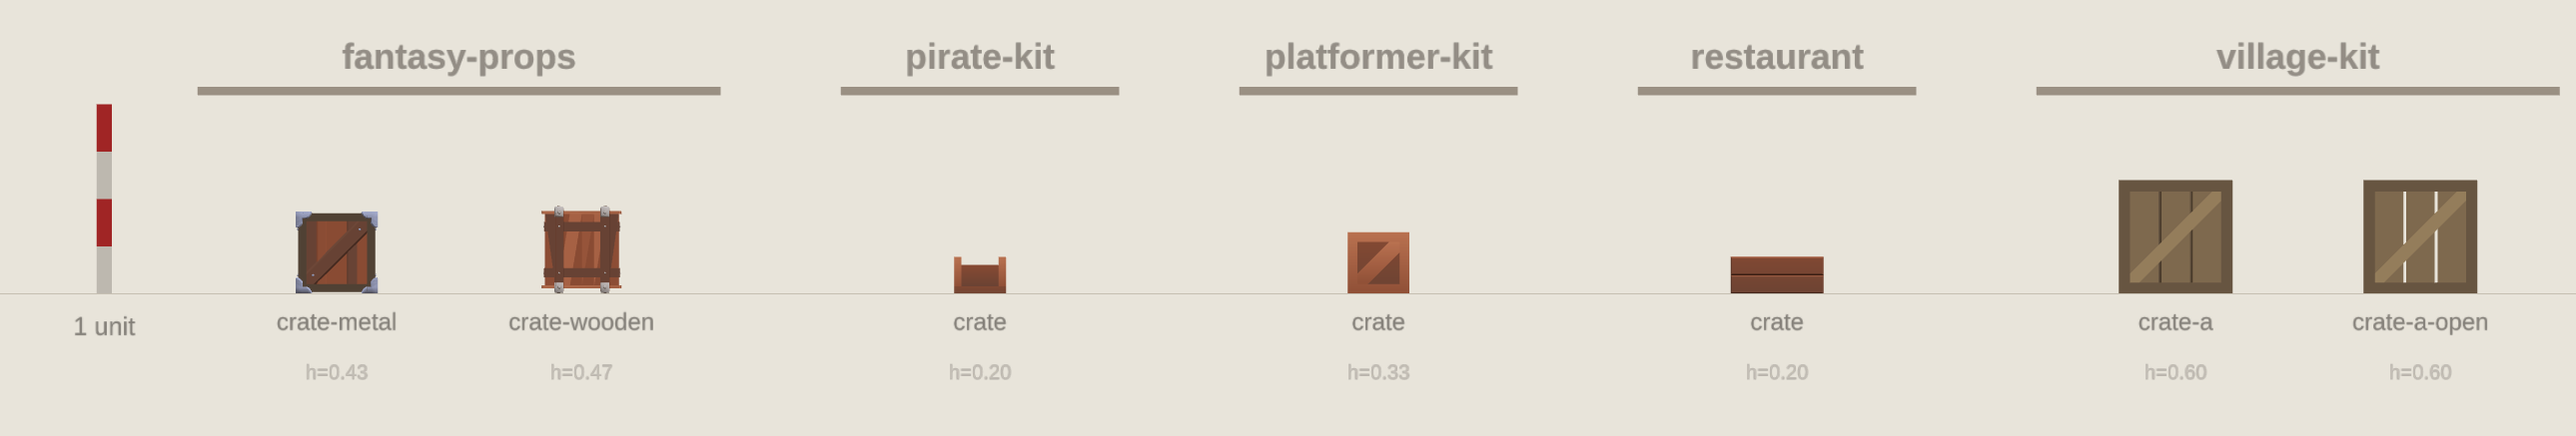
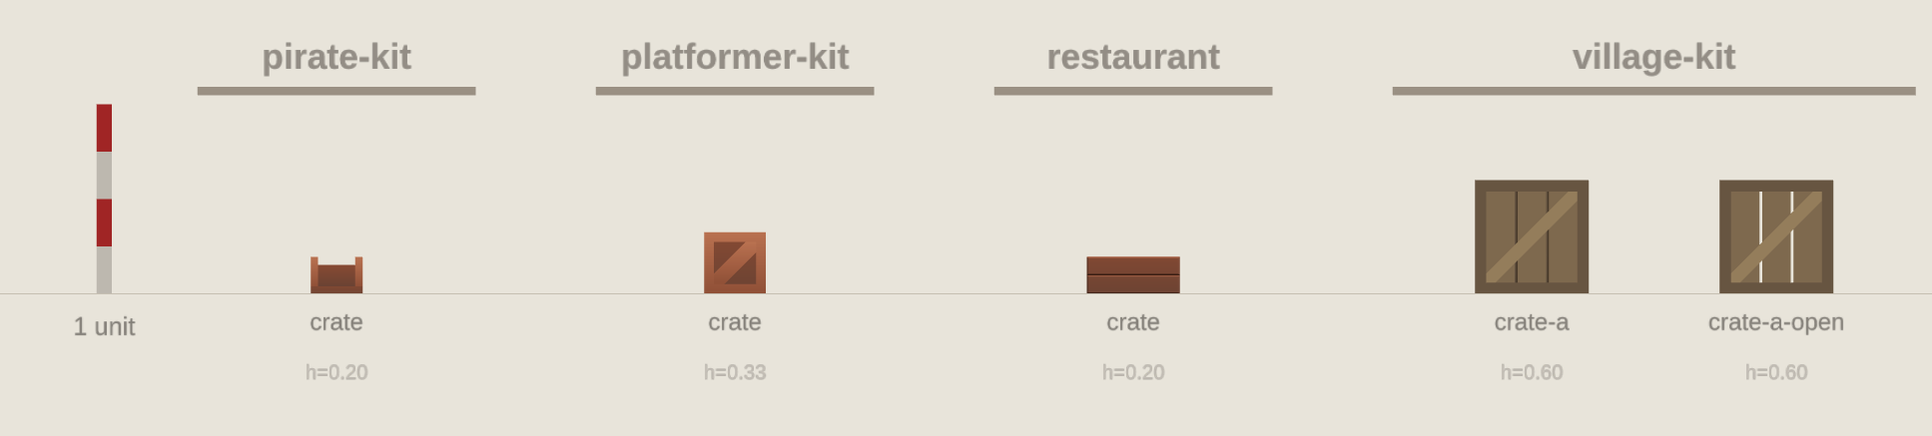
Merge main: stroken en analyse bijgewerkt na het opruimen van assets
- 77 onderwerpen opnieuw gerenderd op de catalogus van 960 modellen; 42 daarvan
  houden een spreiding van 1.8x of meer.
- bevindingen.md: de hoge Quaternius-graspollen zijn verdwenen, dus die kit valt
  niet langer uit de toon (factor 1.02). Wat overblijft bij gras ligt nog steeds
  uiteen, van 0.06 tot 0.29. Kratten lopen nu van 0.20 tot 0.60.

Claude-Session: https://claude.ai/code/session_01DyFMPnEG9Xyxg7HDhnXmAF

diff --git a/docs/asset_size_review/onderwerpen/afwijkingen.md b/docs/asset_size_review/onderwerpen/afwijkingen.md
@@ -9,7 +9,7 @@ node tools/vergelijk-groottes/afwijkingen.mjs
 ```
 
 Onderwerpen met meer dan één kit: 77. Daarvan met een spreiding van
-1.8× of meer tussen grootste en kleinste kit: 44.
+1.8× of meer tussen grootste en kleinste kit: 42.
 
 ## Kits die er structureel uit springen
 
@@ -17,27 +17,27 @@ Onderwerpen met meer dan één kit: 77. Daarvan met een spreiding van
 
 | kit | factor | te groot bij | te klein bij | veel dichter mesh bij |
 | --- | ---: | --- | --- | --- |
-| pirate-kit | 1.21 | fence, rock, rope | grass | fence, roof |
+| pirate-kit | 1.25 | fence, rock, rope | grass | fence, roof |
 | dungeon | 0.84 | key | coin, column, dirt | chest, doorway, pillar, rock, wall, window |
-| natuur | 0.77 | – | balloon, log, mushroom, star | post |
+| natuur | 0.78 | – | balloon, log, mushroom, star | post |
 | rocks | 3.99 | arch, column, wall | – | dirt |
-| survival-kit | 1.18 | fence, grass, rock | – | – |
-| platformer-kit | 0.92 | mushroom | flower, rope | – |
+| survival-kit | 1.19 | fence, grass, rock | – | – |
+| platformer-kit | 0.93 | mushroom | flower, rope | – |
 | fantasy-town-kit | 0.88 | rock | blade, plank | stair |
-| fantasy-props | 0.69 | – | candle, key, plate | candle, crate |
 | props | 1.19 | plate, table | – | – |
-| village-kit | 1.09 | crate, ladder | – | crate |
-| modulair-terrein | 0.90 | – | mountain, post | – |
+| village-kit | 1.11 | crate, ladder | – | crate |
+| modulair-terrein | 0.91 | – | mountain, post | – |
+| fantasy-props | 0.67 | – | key, plate | – |
 | modular-cave-kit | 2.01 | hole | – | – |
 | taalei-kit | 1.92 | balloon | – | – |
 | resources | 1.51 | stack | – | stack |
-| quaternius-nature | 1.24 | grass | – | pine |
 | halloween | 1.07 | – | bench | – |
-| restaurant | 0.74 | – | board | – |
+| restaurant | 0.77 | – | board | – |
 | prototype-kit | 1.16 | – | – | – |
+| quaternius-nature | 1.02 | – | – | pine |
 | rpgtools | 0.89 | – | – | – |
-| mini-forest | 0.81 | – | – | – |
-| forest | 0.78 | – | – | – |
+| mini-forest | 0.84 | – | – | – |
+| forest | 0.83 | – | – | – |
 
 ## Per onderwerp
 
@@ -110,19 +110,6 @@ Mediaan over de kits: 0.17 unit hoog. ![stack](stack.png)
 | dungeon | 0.16 | 0.96 | 0.26 | 968 | #ffb349 | coin-stack-large, coin-stack-small, coin-stack-medium |
 | fantasy-props | 0.10 | 0.62 | 0.14 | 327 | #23562c #8f785b #474a58 | book-stack-1, book-stack-2 |
 
-### grass — spreiding 6.43×
-
-Mediaan over de kits: 0.14 unit hoog. ![grass](grass.png)
-
-| kit | hoogte | factor | grondvlak | driehoeken/unit | kleuren | modellen |
-| --- | ---: | ---: | ---: | ---: | --- | --- |
-| quaternius-nature | 0.41 | 2.81 ⬆ | 0.18 | 192 | #23562c | grass, grass-2, grass-short |
-| survival-kit | 0.29 | 2.04 ⬆ | 2.32 | 173 | #6d8d33 #dd9f79 | rock-flat-grass |
-| forest | 0.17 | 1.17 | 0.17 | 132 | #6d8d33 | grass-1-a, grass-1-b, grass-1-c |
-| village-kit | 0.12 | 0.83 | 0.60 | 64 | #6d8d33 | well-base-grass |
-| mini-forest | 0.11 | 0.77 | 0.65 | 295 | #6d8d33 | patch-grass |
-| pirate-kit | 0.06 | 0.44 ⬇ | 1.34 | 60 | #6d8d33 | patch-grass |
-
 ### coin — spreiding 5.81×
 
 Mediaan over de kits: 0.11 unit hoog. ![coin](coin.png)
@@ -172,6 +159,18 @@ Mediaan over de kits: 6.97 unit hoog. ![mountain](mountain.png)
 | --- | ---: | ---: | ---: | ---: | --- | --- |
 | natuur | 11.54 | 1.66 | 21.05 | 0 | #88796d | mountain-2, mountain-3, mountain-4 |
 | modulair-terrein | 2.39 | 0.34 ⬇ | 1.75 | 6 | #88796d | mountain-a, mountain-b, mountain-c |
+
+### grass — spreiding 4.67×
+
+Mediaan over de kits: 0.12 unit hoog. ![grass](grass.png)
+
+| kit | hoogte | factor | grondvlak | driehoeken/unit | kleuren | modellen |
+| --- | ---: | ---: | ---: | ---: | --- | --- |
+| survival-kit | 0.29 | 2.45 ⬆ | 2.32 | 173 | #6d8d33 #dd9f79 | rock-flat-grass |
+| forest | 0.17 | 1.40 | 0.17 | 132 | #6d8d33 | grass-1-a, grass-1-b, grass-1-c |
+| village-kit | 0.12 | 1.00 | 0.60 | 64 | #6d8d33 | well-base-grass |
+| mini-forest | 0.11 | 0.93 | 0.65 | 295 | #6d8d33 | patch-grass |
+| pirate-kit | 0.06 | 0.53 ⬇ | 1.34 | 60 | #6d8d33 | patch-grass |
 
 ### rock — spreiding 4.63×
 
@@ -272,15 +271,14 @@ Mediaan over de kits: 0.11 unit hoog. ![dirt](dirt.png)
 
 ### crate — spreiding 3.06×
 
-Mediaan over de kits: 0.33 unit hoog. ![crate](crate.png)
+Mediaan over de kits: 0.26 unit hoog. ![crate](crate.png)
 
 | kit | hoogte | factor | grondvlak | driehoeken/unit | kleuren | modellen |
 | --- | ---: | ---: | ---: | ---: | --- | --- |
-| village-kit | 0.60 | 1.85 ⬆ | 0.60 | 460 | #8f785b | crate-a, crate-a-open |
-| fantasy-props | 0.45 | 1.38 | 0.44 | 2157 | #995a41 #8f785b #9da4c4 | crate-metal, crate-wooden |
-| platformer-kit | 0.33 | 1.00 | 0.33 | 156 | #995a41 #d07b56 | crate |
-| pirate-kit | 0.20 | 0.60 | 0.33 | 76 | #995a41 #d07b56 | crate |
-| restaurant | 0.20 | 0.60 | 0.49 | 132 | #995a41 | crate |
+| village-kit | 0.60 | 2.30 ⬆ | 0.60 | 460 | #8f785b | crate-a, crate-a-open |
+| platformer-kit | 0.33 | 1.25 | 0.33 | 156 | #995a41 #d07b56 | crate |
+| pirate-kit | 0.20 | 0.75 | 0.33 | 76 | #995a41 #d07b56 | crate |
+| restaurant | 0.20 | 0.75 | 0.49 | 132 | #995a41 | crate |
 
 ### fence — spreiding 2.72×
 
@@ -302,16 +300,6 @@ Mediaan over de kits: 0.46 unit hoog. ![glass](glass.png)
 | --- | ---: | ---: | ---: | ---: | --- | --- |
 | fantasy-town-kit | 0.65 | 1.42 | 0.65 | 122 | #995a41 #d07b56 | wall-wood-window-glass |
 | rpgtools | 0.27 | 0.58 | 0.13 | 570 | #6d738a #8f785b #ffffff | magnifying-glass |
-
-### candle — spreiding 2.27×
-
-Mediaan over de kits: 0.22 unit hoog. ![candle](candle.png)
-
-| kit | hoogte | factor | grondvlak | driehoeken/unit | kleuren | modellen |
-| --- | ---: | ---: | ---: | ---: | --- | --- |
-| dungeon | 0.22 | 1.00 | 0.08 | 66 | #8f785b #f4efe3 | candle, candle-thin, candle-melted |
-| halloween | 0.22 | 1.00 | 0.08 | 66 | #995a41 #f4efe3 | candle, candle-thin, candle-melted |
-| fantasy-props | 0.10 | 0.44 ⬇ | 0.05 | 211 | #6d738a #dd9f79 #ffb349 | candle-1, candle-2 |
 
 ### log — spreiding 2.24×
 
@@ -363,16 +351,6 @@ Mediaan over de kits: 0.19 unit hoog. ![stool](stool.png)
 | --- | ---: | ---: | ---: | ---: | --- | --- |
 | props | 0.26 | 1.35 | 0.31 | 268 | #3e3e44 #8f785b | stool-a |
 | dungeon | 0.13 | 0.65 | 0.19 | 172 | #995a41 | stool |
-
-### stump — spreiding 2.06×
-
-Mediaan over de kits: 0.21 unit hoog. ![stump](stump.png)
-
-| kit | hoogte | factor | grondvlak | driehoeken/unit | kleuren | modellen |
-| --- | ---: | ---: | ---: | ---: | --- | --- |
-| quaternius-nature | 0.25 | 1.19 | 0.54 | 232 | #23562c #88796d | tree-stump |
-| modulair-terrein | 0.21 | 1.00 | 0.17 | 100 | #8f785b | hilly-prop-stump |
-| natuur | 0.12 | 0.58 | 0.14 | 220 | #8f785b #dd9f79 | stump-1, stump-2, stump-3 |
 
 ### barrel — spreiding 1.99×
 

diff --git a/docs/asset_size_review/onderwerpen/bevindingen.md b/docs/asset_size_review/onderwerpen/bevindingen.md
@@ -5,8 +5,9 @@ Handgeschreven notities bij de stroken in deze map en de cijfers in
 units, driehoeken per unit); de oordelen komen van het bekijken van de renders.
 Dit bestand wordt niet gegenereerd — vul het aan als je iets anders ziet.
 
-Bijgewerkt nadat de kits op maat zijn gezet: de meeste kits zijn kleiner geworden,
-waardoor de verhoudingen hieronder anders liggen dan in de eerste ronde.
+Bijgewerkt nadat de kits op maat zijn gezet en er assets zijn opgeruimd: de meeste
+kits zijn kleiner geworden en een aantal modellen is verdwenen, waardoor de
+verhoudingen hieronder anders liggen dan in de eerste ronde.
 
 ## Twee schalen door elkaar
 
@@ -21,12 +22,14 @@ Dat is geen fout in die kits — het zijn decorstukken voor de achtergrond — m
 horen niet in dezelfde strook als een huismuur. Bij plaatsing apart houden, of één
 schaalfactor voor de hele kit afspreken.
 
-## Gras blijft de grootste stijlbreuk in de natuurkits
+## Gras: de uitschieter is weg, de rest ligt nog uiteen
 
-In [grass.png](grass.png) staat `quaternius-nature` met pollen van 0.41–0.48 units
-naast `forest` (0.16–0.17), `mini-forest` (0.11) en `pirate-kit` (0.06): drie tot
-acht keer zo hoog. Bij Quaternius reikt het gras tot je knie, bij de andere kits
-ligt het als een matje op de grond. Naast elkaar in één scène valt dat direct op.
+De hoge Quaternius-pollen zijn met het opruimen van assets verdwenen. Wat overblijft
+in [grass.png](grass.png) ligt dichter bij elkaar maar nog niet gelijk: `survival-kit`
+0.29 (en dan als graslaag op een platte rots, geen pol), `forest` 0.16–0.17,
+`village-kit` 0.12, `mini-forest` 0.11 en `pirate-kit` 0.06 — spreiding 4.67×.
+`quaternius-nature` staat over alle onderwerpen nu op factor 1.02, precies de
+mediaan; die kit valt dus niet meer uit de toon.
 
 ## Hekken vallen in twee groepen
 
@@ -39,9 +42,8 @@ stuk van het andere.
 ## Kisten en kratten hebben geen huismaat
 
 [crate.png](crate.png) loopt van 0.20 (`pirate-kit`, `restaurant`) via 0.33
-(`platformer-kit`) en 0.43–0.47 (`fantasy-props`) naar 0.60 (`village-kit`):
-spreiding 3.06×. Vaten idem, 0.30 (`village-kit`) tot 0.60 (`props`), met binnen
-`dungeon` zelf al 0.25–0.64.
+(`platformer-kit`) naar 0.60 (`village-kit`): spreiding 3.00×. Vaten idem, 0.30
+(`village-kit`) tot 0.60 (`props`), met binnen `dungeon` zelf al 0.25–0.64.
 
 Opvallende tegenhanger: schatkisten zitten wél dicht bij elkaar, 0.29–0.33 over drie
 kits. Voor kratten en vaten valt dus een huismaat te kiezen; 0.45 ligt in het midden
@@ -60,8 +62,9 @@ goedkoopste correctie in deze lijst.
 ## Detail per unit verschilt sterker dan de vorm
 
 Bij hetzelfde onderwerp zit de meshdichtheid ver uit elkaar: vaten lopen van 428
-driehoeken per unit (`props`) via 480 (`village-kit`) en 561 (`dungeon`) naar 824
-(`fantasy-props`), terwijl de rotskits op 1–2 zitten. Sterkste geval is *key*:
+driehoeken per unit (`props`) via 452 (`village-kit`) en 561 (`dungeon`) naar 824
+(`fantasy-props`), terwijl de rotskits op 1–2 zitten (die modellen zijn dan ook
+metersgroot). Sterkste geval is *key*:
 `fantasy-props` gebruikt 956 driehoeken per unit voor een sleutel van 0.01 hoog,
 `dungeon` 160 voor een van 0.10. Alles blijft binnen het budget van 1000 per unit,
 maar een `fantasy-props`-model naast een `props`-model oogt gladder.

diff --git a/docs/asset_size_review/onderwerpen/README.md b/docs/asset_size_review/onderwerpen/README.md
@@ -105,7 +105,7 @@ node tools/vergelijk-groottes/rapport.mjs
 
 ## candle
 
-8 modellen uit 3 kits: dungeon, fantasy-props, halloween. Hoogtespreiding 2.27×.
+6 modellen uit 2 kits: dungeon, halloween. Hoogtespreiding 1.00×.
 
 ![candle](candle.png)
 
@@ -159,7 +159,7 @@ node tools/vergelijk-groottes/rapport.mjs
 
 ## crate
 
-7 modellen uit 5 kits: fantasy-props, pirate-kit, platformer-kit, restaurant, village-kit. Hoogtespreiding 3.06×.
+5 modellen uit 4 kits: pirate-kit, platformer-kit, restaurant, village-kit. Hoogtespreiding 3.06×.
 
 ![crate](crate.png)
 
@@ -231,7 +231,7 @@ node tools/vergelijk-groottes/rapport.mjs
 
 ## grass
 
-10 modellen uit 6 kits: forest, mini-forest, pirate-kit, quaternius-nature, survival-kit, village-kit. Hoogtespreiding 6.43×.
+7 modellen uit 5 kits: forest, mini-forest, pirate-kit, survival-kit, village-kit. Hoogtespreiding 4.67×.
 
 ![grass](grass.png)
 
@@ -441,7 +441,7 @@ node tools/vergelijk-groottes/rapport.mjs
 
 ## stump
 
-5 modellen uit 3 kits: modulair-terrein, natuur, quaternius-nature. Hoogtespreiding 2.06×.
+4 modellen uit 2 kits: modulair-terrein, natuur. Hoogtespreiding 1.73×.
 
 ![stump](stump.png)
 
